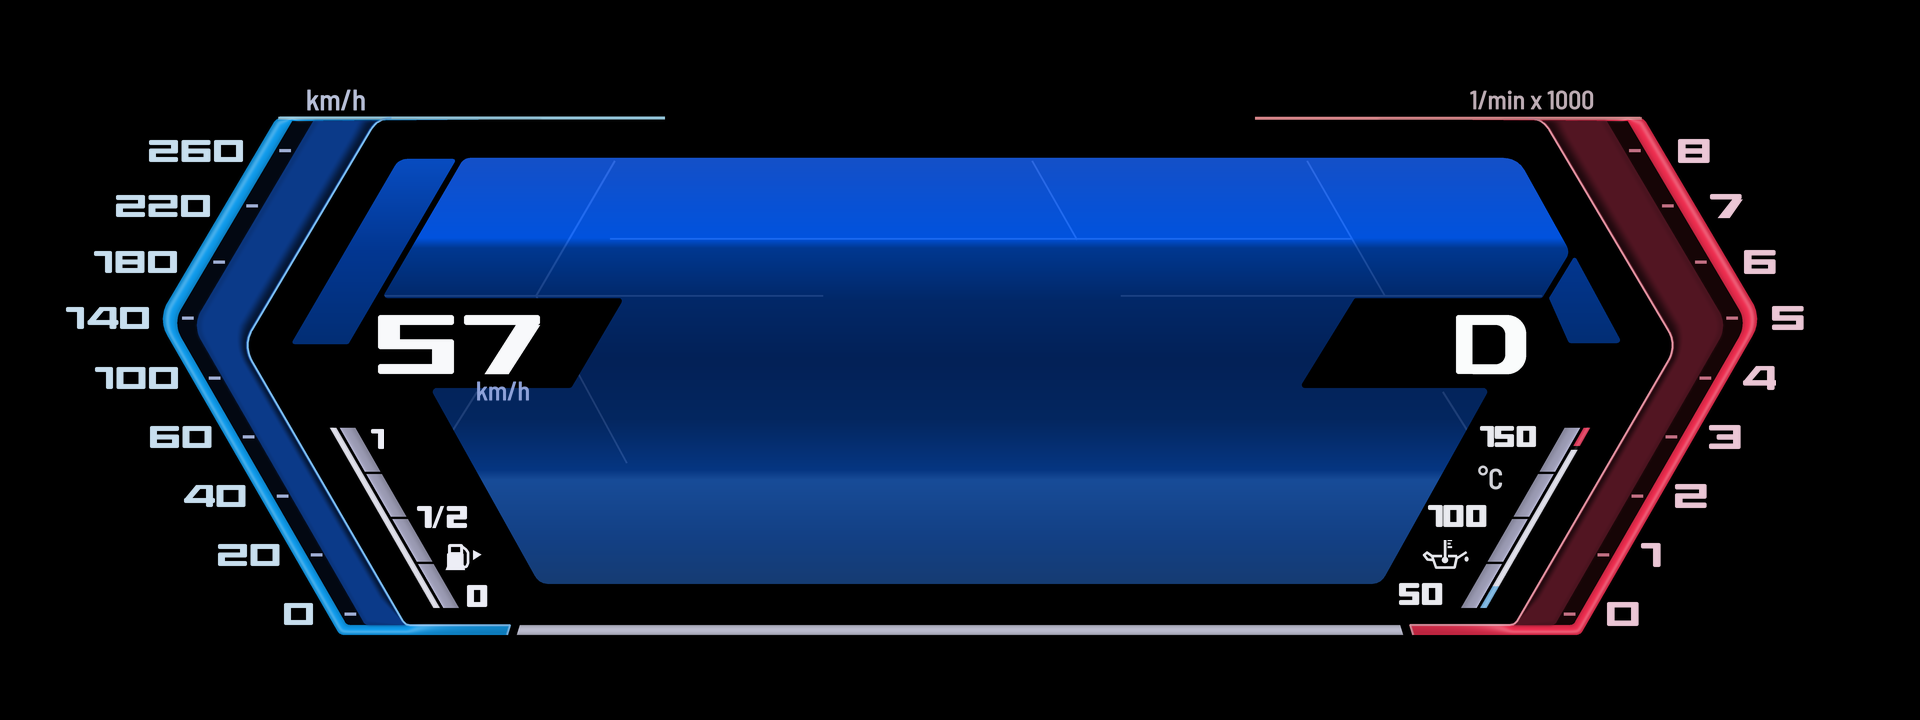
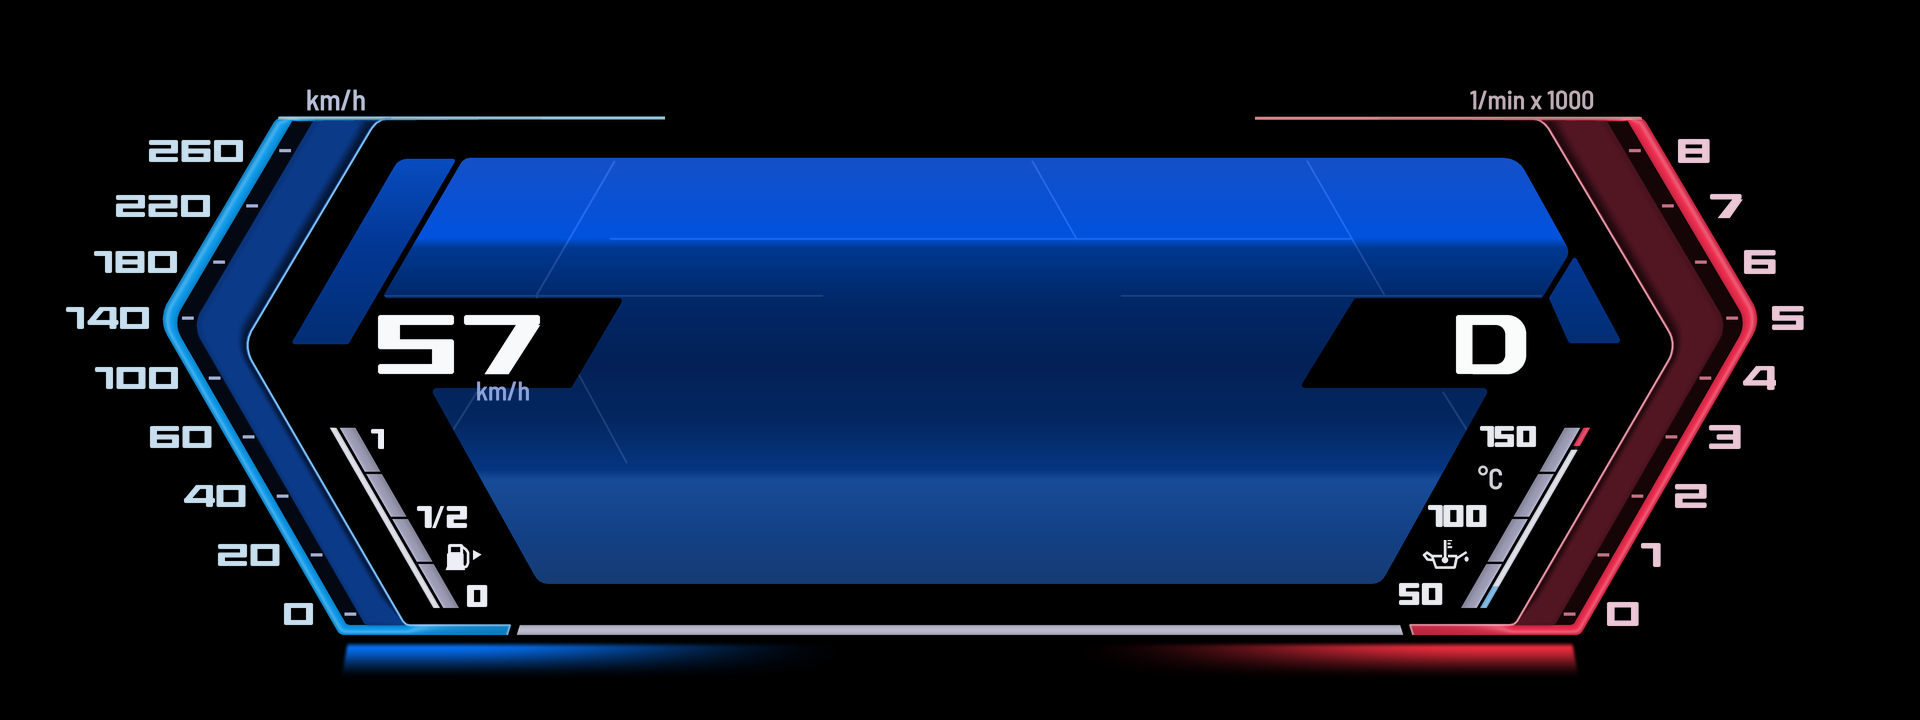
cluster: ID8-A blue and red glow under the brackets' feet
Claude-Session: https://claude.ai/code/session_01APCM7bQyWwkFmahRh5zUds

Changed region(s): [[0.5938, 0.8861, 0.8438, 0.9472], [0.1562, 0.8861, 0.4062, 0.9472]]

diff --git a/cluster/tools/gen_static.py b/cluster/tools/gen_static.py
@@ -587,6 +587,29 @@ def draw_gauge_labels(img, cfg):
             draw(img, ic['at'][0] * W, ic['at'][1] * H, ic['size'][0], ic['size'][1], lb['color'])
 
 
+def feet_glow(img, cfg):
+    """The blurred blue / red glow under the brackets' feet (config 'feet_glow'), added over the black."""
+    W, H = cfg['grid']
+    for el in cfg['elements'].values():
+        if 'y_peak' not in el:
+            continue
+        yt, yp, ye = el['y_top'] * H, el['y_peak'] * H, el['y_end'] * H
+        X, Y = np.meshgrid(np.arange(W) + 0.5, np.arange(int(yt) - 1, int(ye) + 2) + 0.5)
+        vy = np.where(Y < yp, smooth(yt, yp, Y), 1 - smooth(yp, ye, Y) ** 0.7)
+        f = (Y - yt) / (ye - yt)
+        xo = (el['x_out'] + (el['x_out_bottom'] - el['x_out']) * f) * W
+        vx = smooth(xo - 3, xo + 3, X) * (1 - smooth(el['x_full'] * W, el['x_fade'] * W, X))
+        left = (vx * vy)[..., None] * np.array(el['blue'], np.float32)
+        vxr = vx[:, ::-1]                                        # the red one: the mirror
+        right = (vxr * vy)[..., None] * np.array(el['red'], np.float32)
+        arr = np.asarray(img).astype(np.float32)
+        y0 = int(yt) - 1
+        sl = arr[y0:y0 + Y.shape[0], :, :3]
+        arr[y0:y0 + Y.shape[0], :, :3] = np.clip(sl + left + right, 0, 255)
+        img = Image.fromarray(arr.astype(np.uint8), 'RGBA')
+    return img
+
+
 def build_static(cfg):
     """The static layer, RGBA at grid size: each bracket filled zone by zone (band, gap, stripe), then its lines and marks."""
     expand(cfg)
@@ -622,6 +645,7 @@ def build_static(cfg):
             img = bevel(img, cfg, el)
     for el in cfg['elements'].values():
         img = gauge_bevel(img, cfg, el)
+    img = feet_glow(img, cfg)
     draw_numbers(img, cfg)
     draw_labels(img, cfg)
     draw_gauge_labels(img, cfg)
